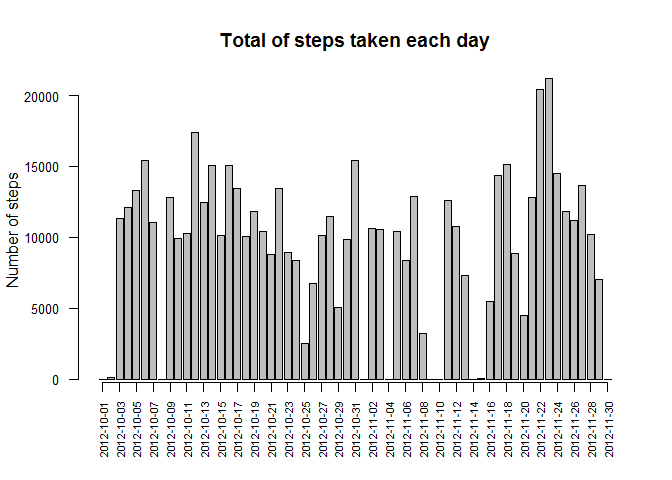
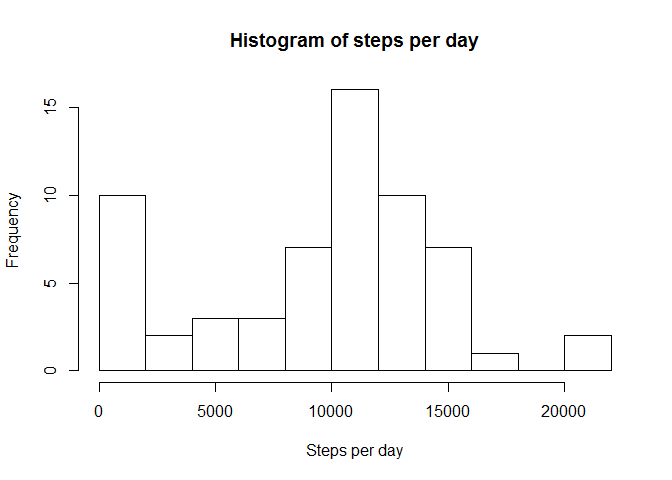
update

diff --git a/PA1_template.html b/PA1_template.html
@@ -90,11 +90,9 @@ activity &lt;- read.csv(&quot;activity.csv&quot;, sep=&quot;,&quot;)</code></pre
 total.per.day &lt;- activity %&gt;% group_by(date) %&gt;% summarise(total=sum(steps, na.rm=TRUE))
 
 # 2. Draw histogram
-b &lt;- barplot(height=total.per.day$total, las=2, cex.axis=0.8, xaxt=&quot;n&quot;, 
-        ylab=&quot;Number of steps&quot;, main=&quot;Total of steps taken each day&quot;)
-bseq &lt;- seq(1,length(b),by=2)
-axis(1, at=b[bseq], labels=total.per.day$date[bseq], las=2, cex.axis=0.7, adj=1)</code></pre>
[1 lines of base64/hex data omitted]
+hist(total.per.day$total, main=&quot;Histogram of steps per day&quot;, 
+     xlab=&quot;Steps per day&quot;, breaks=10)</code></pre>
[1 lines of base64/hex data omitted]
 <pre class="r"><code># 3. Calculate mean steps per day - remove days without data
 mean.per.day &lt;- mean(total.per.day$total, na.rm=TRUE)</code></pre>
 <p><strong>The mean is 9354.23</strong></p>
@@ -107,7 +105,7 @@ median.per.day &lt;- median(total.per.day$total, na.rm=TRUE)</code></pre>
 <pre class="r"><code># Calculate average of steps per interval of time
 average.per.interval &lt;- activity %&gt;% group_by(interval) %&gt;% summarise(avg.steps=mean(steps, na.rm=TRUE))
 
-# 1. Draw plot of period x number of steps
+# 1. Draw plot of period vs. number of steps
 plot(x=average.per.interval$interval, y=average.per.interval$avg.steps, type=&quot;l&quot;, xaxt=&quot;n&quot;,
      xlab=&quot;Time of day&quot;, ylab=&quot;Average steps&quot;, main=&quot;Average number of steps x time of day&quot;)
 axis(1, at=seq(0,2300,by=100), labels=paste0(seq(0,23), ':00'), las=2, cex.axis=0.8)</code></pre>
@@ -132,24 +130,10 @@ activity.filled$steps[ind.na] &lt;- inner_join(activity, average.per.interval, b
 # Compute new total per day using filled data
 total.per.day.filled &lt;- activity.filled %&gt;% group_by(date) %&gt;% summarise(total=sum(steps))
 
-# Column indicating which days have filled data
-total.per.day.filled$filled &lt;- as.factor(is.na((activity %&gt;% group_by(date) %&gt;%
-    summarise(total=sum(steps)))$total))
-
-# Friendly names for the &quot;filled&quot; indicator
-levels(total.per.day.filled$filled) &lt;- c(&quot;original data&quot;, &quot;filled&quot;)
-
-# Make plot - filled days will be indicated with a different color
-palette(c(&quot;grey&quot;, &quot;cyan&quot;))
-b &lt;- barplot(height=total.per.day.filled$total, las=2, cex.axis=0.8, xaxt=&quot;n&quot;, 
-        ylab=&quot;Number of steps&quot;, main=&quot;Total of steps taken each day\n(with missing values filled)&quot;,
-        col=total.per.day.filled$filled)
-legend(&quot;top&quot;, legend=levels(total.per.day.filled$filled), cex=0.6, lty=1, col=c(&quot;grey&quot;, &quot;cyan&quot;))
-
-# Labels on X axis at every 2 days
-bseq &lt;- seq(1,length(b),by=2)
-axis(1, at=b[bseq], labels=total.per.day.filled$date[bseq], las=2, cex.axis=0.7, adj=1)</code></pre>
[1 lines of base64/hex data omitted]
+# Draw histogram
+hist(total.per.day.filled$total, main=&quot;Histogram of steps per day\n(with missing values filled)&quot;, 
+     xlab=&quot;Steps per day&quot;, breaks=10)</code></pre>
[1 lines of base64/hex data omitted]
 <pre class="r"><code># Calculate new mean and median using filled data
 mean.per.day.filled &lt;- mean(total.per.day$total)
 median.per.day.filled &lt;- median(total.per.day$total)</code></pre>

diff --git a/PA1_template.md b/PA1_template.md
@@ -39,10 +39,8 @@ For this plot we will use the original data (without NA's removed), so we can al
 total.per.day <- activity %>% group_by(date) %>% summarise(total=sum(steps, na.rm=TRUE))
 
 # 2. Draw histogram
-b <- barplot(height=total.per.day$total, las=2, cex.axis=0.8, xaxt="n", 
-        ylab="Number of steps", main="Total of steps taken each day")
-bseq <- seq(1,length(b),by=2)
-axis(1, at=b[bseq], labels=total.per.day$date[bseq], las=2, cex.axis=0.7, adj=1)
+hist(total.per.day$total, main="Histogram of steps per day", 
+     xlab="Steps per day", breaks=10)
 ```
 
 ![](PA1_template_files/figure-html/unnamed-chunk-2-1.png) 
@@ -67,7 +65,7 @@ median.per.day <- median(total.per.day$total, na.rm=TRUE)
 # Calculate average of steps per interval of time
 average.per.interval <- activity %>% group_by(interval) %>% summarise(avg.steps=mean(steps, na.rm=TRUE))
 
-# 1. Draw plot of period x number of steps
+# 1. Draw plot of period vs. number of steps
 plot(x=average.per.interval$interval, y=average.per.interval$avg.steps, type="l", xaxt="n",
      xlab="Time of day", ylab="Average steps", main="Average number of steps x time of day")
 axis(1, at=seq(0,2300,by=100), labels=paste0(seq(0,23), ':00'), las=2, cex.axis=0.8)
@@ -103,23 +101,9 @@ activity.filled$steps[ind.na] <- inner_join(activity, average.per.interval, by="
 # Compute new total per day using filled data
 total.per.day.filled <- activity.filled %>% group_by(date) %>% summarise(total=sum(steps))
 
-# Column indicating which days have filled data
-total.per.day.filled$filled <- as.factor(is.na((activity %>% group_by(date) %>%
-    summarise(total=sum(steps)))$total))
-
-# Friendly names for the "filled" indicator
-levels(total.per.day.filled$filled) <- c("original data", "filled")
-
-# Make plot - filled days will be indicated with a different color
-palette(c("grey", "cyan"))
-b <- barplot(height=total.per.day.filled$total, las=2, cex.axis=0.8, xaxt="n", 
-        ylab="Number of steps", main="Total of steps taken each day\n(with missing values filled)",
-        col=total.per.day.filled$filled)
-legend("top", legend=levels(total.per.day.filled$filled), cex=0.6, lty=1, col=c("grey", "cyan"))
-
-# Labels on X axis at every 2 days
-bseq <- seq(1,length(b),by=2)
-axis(1, at=b[bseq], labels=total.per.day.filled$date[bseq], las=2, cex.axis=0.7, adj=1)
+# Draw histogram
+hist(total.per.day.filled$total, main="Histogram of steps per day\n(with missing values filled)", 
+     xlab="Steps per day", breaks=10)
 ```
 
 ![](PA1_template_files/figure-html/unnamed-chunk-6-1.png) 
